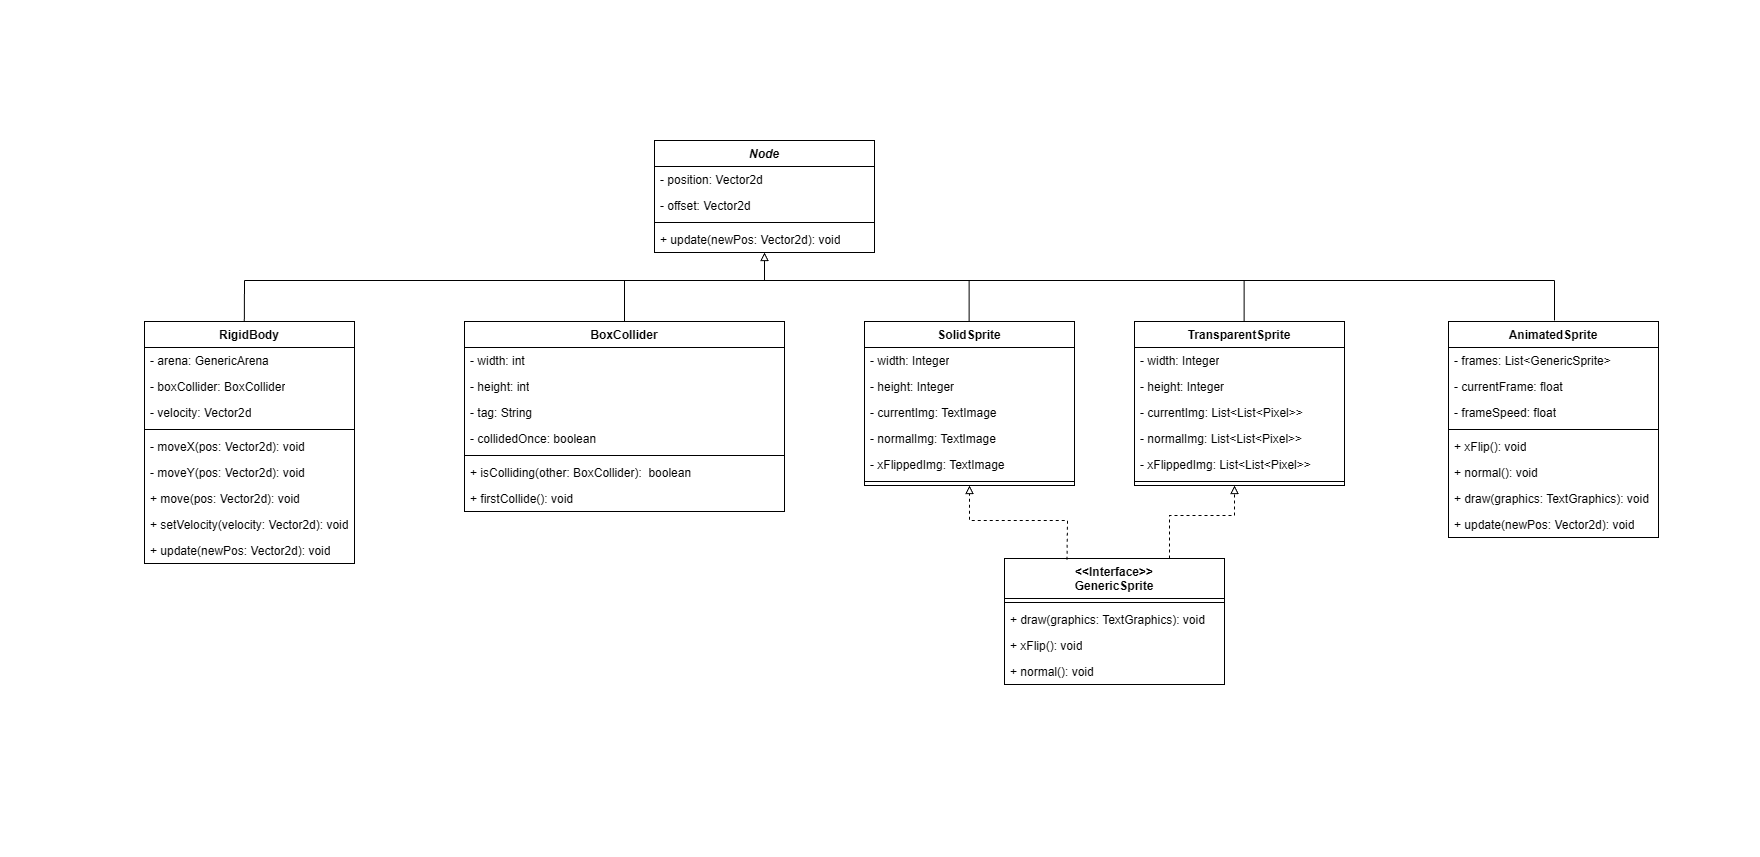
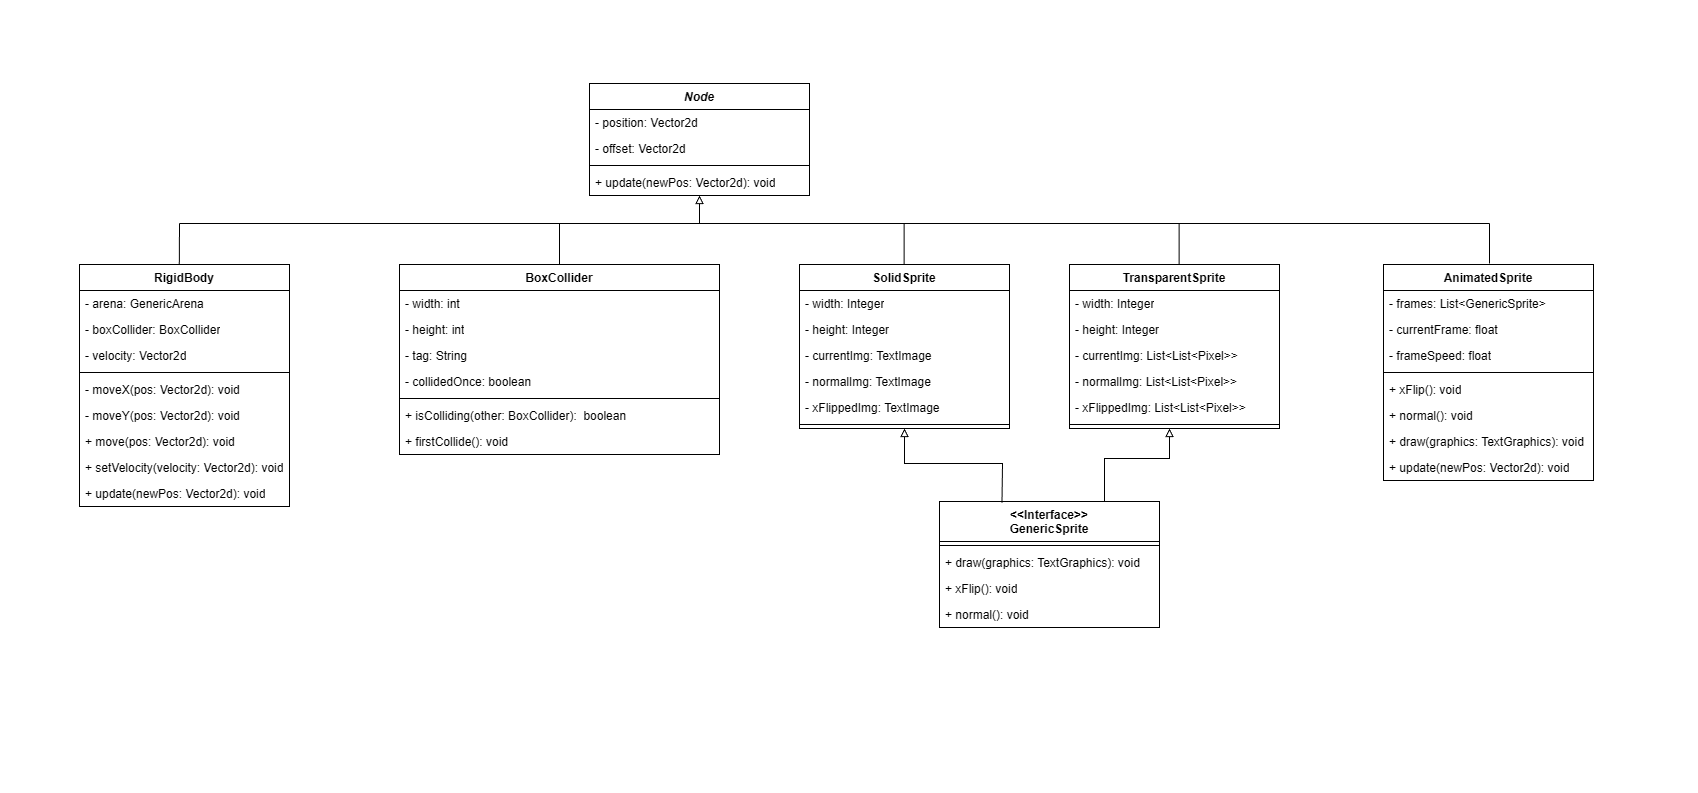
Addding new UML for each design pattern in the report (added UML of FSM and their state diagrams and added UML of MVC from Tile)

diff --git a/src/main/java/com/aor/hero/states/GroundedState.java b/src/main/java/com/aor/hero/states/GroundedState.java
@@ -30,7 +30,7 @@ public class GroundedState implements HeroState {
             controller.getCoyoteTimer().start();
             model.setState(new FallingState(model));
 
-        } else if (model.getDirection().getX() == 0 && model.getDirection().getY() == 0) {
+        } else if (model.getDirection().getX() == 0) {
             model.setState(new IdleState(model));
         }
     }

diff --git a/README.md b/README.md
@@ -152,7 +152,7 @@ Assim, criamos MVCs para duas grandes entidades:
   <img src="misc/MVC.png"/>
 </p>
 <p align="center">
-  <b><i>Fig. 4 UML do MVC</i></b>
+  <b><i>Fig. 6 UML do MVC genérico</i></b>
 </p>
 
 E com essa estrutura, a criação do *Hero* ficou assim (este MVC é bem extenso, então só vou apresentar os atributos e métodos mais importantes):
@@ -160,7 +160,7 @@ E com essa estrutura, a criação do *Hero* ficou assim (este MVC é bem extenso
   <img src="misc/heroMVC.png"/>
 </p>
 <p align="center">
-  <b><i>Fig. 5 MVC aplicado no Hero</i></b>
+  <b><i>Fig. 7 MVC aplicado no Hero</i></b>
 </p>
 
 E com essa estrutura, a criação do *Tile* ficou assim:
@@ -168,7 +168,7 @@ E com essa estrutura, a criação do *Tile* ficou assim:
   <img src="misc/tileMVC.png"/>
 </p>
 <p align="center">
-  <b><i>Fig. 5 MVC aplicado no Hero</i></b>
+  <b><i>Fig. 8 MVC aplicado no Tile</i></b>
 </p>
 
 As classes relacionadas com o tópico podem ser achadas nos seguintes ficheiros:
@@ -222,7 +222,7 @@ Por fim, para qualquer objeto que necessite de saber se um certo *input* foi pre
   <img src="misc/inputHandlerUML.png"/>
 </p>
 <p align="center">
-  <b><i>Fig. 6 UML do Inputhandler</i></b>
+  <b><i>Fig. 9 UML do Inputhandler</i></b>
 </p>
 
 As classes relacionadas com o tópico podem ser achadas nos seguintes ficheiros:
@@ -261,10 +261,17 @@ Com base nessa base, implementamos os seguintes estados:
 - EndState: um estado que representa o fim do jogo.
 
 <p align="center" justify="center">
-  <img src="misc/inputHandlerUML.png"/>
+  <img src="misc/gameStateUML.png"/>
 </p>
 <p align="center">
-  <b><i>Fig. 6 UML do Inputhandler</i></b>
+  <b><i>Fig. 10 UML do GameState</i></b>
+</p>
+
+<p align="center" justify="center">
+  <img src="misc/gameFSM.png"/>
+</p>
+<p align="center">
+  <b><i>Fig. 11 State diagram do GameState</i></b>
 </p>
 
 As classes relacionadas com o tópico podem ser achadas nos seguintes ficheiros:
@@ -310,10 +317,17 @@ Com base nisso, criamos os seguintes estados:
 Assim, o estado atual é guardado no *HeroModel* para ser utilizado pelo *HeroController* e pelo *HeroView*.
 
 <p align="center" justify="center">
-  <img src="misc/inputHandlerUML.png"/>
+  <img src="misc/heroStateUML.png"/>
 </p>
 <p align="center">
-  <b><i>Fig. 6 UML do Inputhandler</i></b>
+  <b><i>Fig. 12 UML do HeroState</i></b>
+</p>
+
+<p align="center" justify="center">
+  <img src="misc/heroStateFSM.png"/>
+</p>
+<p align="center">
+  <b><i>Fig. 13 Diagrama de estados do HeroState</i></b>
 </p>
 
 As classes relacionadas com o tópico podem ser achadas nos seguintes ficheiros:
@@ -339,8 +353,6 @@ O uso dessa estratégia teve os seguintes benefícios:
 - Facilidade em adicionar um novo estado do *player* ao respeitar o *open-closed principle*.
 
 ------
-
-
 
 #### KNOWN CODE SMELLS
 
